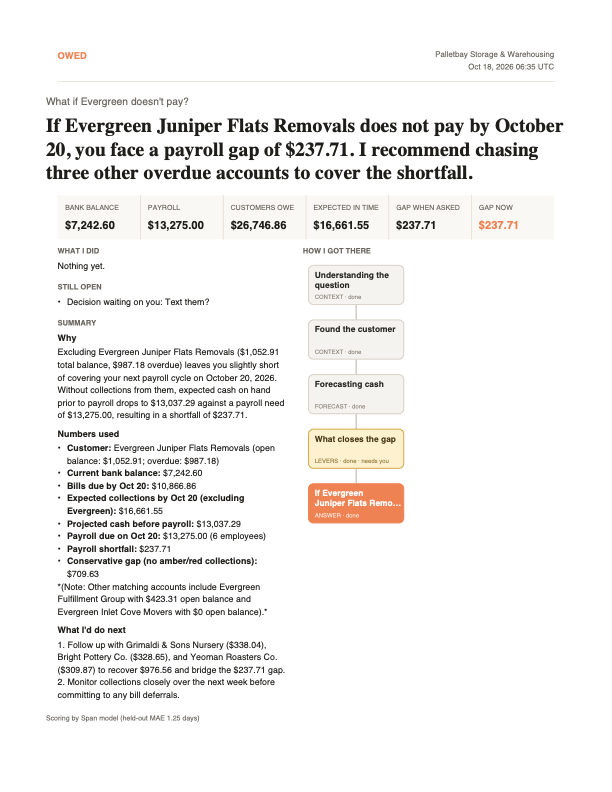
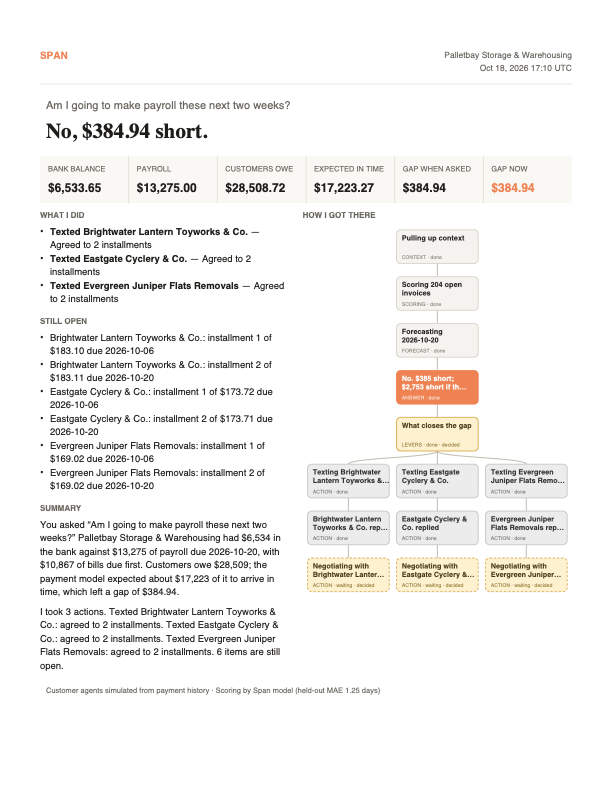
Project site: anime.js choreography (run replay, chat sequence, count-ups, trend draw), symmetric column, report on a white sheet

Changed region(s): [[0.0621, 0.1212, 0.9314, 0.9091], [0.7141, 0.0606, 0.9314, 0.0909], [0.0621, 0.0606, 0.1552, 0.0909]]

diff --git a/site/index.html b/site/index.html
@@ -79,7 +79,7 @@
   figure img{display:block;width:100%;height:auto}
   figcaption{padding:10px 14px;font-size:13px;color:var(--muted)}
   .honest{background:#fff8e6;border:1px solid #f1dfa4;border-radius:12px;padding:14px 16px;font-size:14px;color:#6a5a1e;margin-bottom:40px}
-  .show{margin-bottom:56px}
+  .show{margin:0 auto 56px;max-width:920px}
   .show.two{display:grid;grid-template-columns:1fr 1fr;gap:24px}
   @media (max-width:820px){.show.two{grid-template-columns:1fr}}
   .shead{margin-bottom:12px}
@@ -110,10 +110,12 @@
   .stats{display:grid;grid-template-columns:repeat(3,1fr);gap:1px;background:var(--line);border:1px solid var(--line);border-radius:10px;overflow:hidden;margin-bottom:12px}
   .stats div{background:var(--card);padding:10px 12px}.stats span{display:block;font-size:11px;color:var(--muted)}.stats b{font-size:20px;font-variant-numeric:tabular-nums}.stats .red{color:#d93025}.stats .green{color:var(--green)}
   .trend{width:100%;height:auto;display:block}
-  .paper{margin:0;background:var(--card);border:1px solid var(--line);border-radius:14px;overflow:hidden;max-width:620px}.paper img{display:block;width:100%;height:auto}
-  .nums{display:grid;grid-template-columns:repeat(auto-fit,minmax(170px,1fr));gap:14px;margin-bottom:44px}
+  .paper{margin:0 auto;background:#fff;border:1px solid var(--line);border-radius:14px;overflow:hidden;max-width:640px;box-shadow:0 18px 50px rgba(57,58,61,.12)}.paper img{display:block;width:100%;height:auto;background:#fff}
+  .nums{display:grid;grid-template-columns:repeat(auto-fit,minmax(170px,1fr));gap:14px;margin:0 auto 44px;max-width:920px}
   .nums div{background:var(--card);border:1px solid var(--line);border-radius:14px;padding:16px 18px}.nums b{display:block;font-size:30px;letter-spacing:-.02em;line-height:1.1;margin-bottom:4px}.nums span{font-size:13px;color:var(--muted)}
-  footer{color:var(--muted);font-size:13px;border-top:1px solid var(--line);padding-top:18px;line-height:1.6}
+  footer{color:var(--muted);font-size:13px;border-top:1px solid var(--line);padding-top:18px;line-height:1.6;max-width:920px;margin:0 auto}
+  .shead{text-align:left}
+  @media (prefers-reduced-motion:reduce){[data-anim]{opacity:1!important;transform:none!important}}
   footer a{color:inherit}
   @media (prefers-color-scheme:dark){:root{--ink:#e8e9ec;--muted:#a6a8b0;--line:#2f3136;--bg:#141518;--card:#1d1f23}.honest{background:#2a2612;border-color:#4a4120;color:#e5d7a3}}
 </style>
@@ -138,12 +140,12 @@
           <span><svg viewBox="0 0 16 16" fill="none" stroke="currentColor" stroke-width="1.7"><circle cx="8" cy="5.5" r="2.5"/><path d="M3 14c.8-3 2.6-4 5-4s4.2 1 5 4"/></svg>Customers</span>
         </div>
         <div class="canvas">
-          <div class="you"><span class="av">R</span><span>Am I going to make payroll these next two weeks?</span></div>
-          <div class="tool"><span class="ck">&#10003;</span><b>read books</b><span>· bank $6.5k, payroll $13.3k, bills $10.9k</span><span class="t">0.4 s</span></div>
-          <div class="tool"><span class="ck">&#10003;</span><b>score invoices</b><span>· 204 scored</span><span class="t">11.4 s</span></div>
-          <div class="tool"><span class="ck">&#10003;</span><b>forecast cash</b><span>· cushion −$385</span><span class="t">0.4 s</span></div>
-          <div class="verdict"><span class="av s">S</span><span>No. $385 short; $2,753 short if the slow payers slip. This estimate uses payment history and bills due by Oct 20.</span><span class="pill">SHORT</span></div>
-          <div class="lever">
+          <div class="you" data-anim="hero"><span class="av">R</span><span>Am I going to make payroll these next two weeks?</span></div>
+          <div class="tool" data-anim="hero"><span class="ck">&#10003;</span><b>read books</b><span>· bank $6.5k, payroll $13.3k, bills $10.9k</span><span class="t">0.4 s</span></div>
+          <div class="tool" data-anim="hero"><span class="ck">&#10003;</span><b>score invoices</b><span>· 204 scored</span><span class="t">11.4 s</span></div>
+          <div class="tool" data-anim="hero"><span class="ck">&#10003;</span><b>forecast cash</b><span>· cushion −$385</span><span class="t">0.4 s</span></div>
+          <div class="verdict" data-anim="hero"><span class="av s">S</span><span>No. $385 short; $2,753 short if the slow payers slip. This estimate uses payment history and bills due by Oct 20.</span><span class="pill">SHORT</span></div>
+          <div class="lever" data-anim="hero">
             <div class="h"><span class="ic">&#9993;</span>Text 3 reliable late payers<span class="amt">+ $845</span></div>
             <div class="chips">
               <span class="chip"><span class="av" style="background:#2d7ff9">HT</span>Hearth · $282</span>
@@ -153,7 +155,7 @@
             <div class="fine"><i></i>tap a name to leave them out · nothing is sent until you say so</div>
             <div class="acts"><span class="b p">Yes, text them</span><span class="b">Text, don’t touch bills</span><span class="b">Not now</span></div>
           </div>
-          <div class="dock"><span class="ic">&#9742;</span><span class="wave"><i></i><i style="height:10px"></i><i style="height:13px"></i><i style="height:8px"></i><i></i></span>Conversation<span class="badge">5</span></div>
+          <div class="dock" data-anim="hero"><span class="ic">&#9742;</span><span class="wave"><i></i><i style="height:10px"></i><i style="height:13px"></i><i style="height:8px"></i><i></i></span>Conversation<span class="badge">5</span></div>
         </div>
       </div>
     </div>
@@ -168,19 +170,19 @@
     <div class="msgs">
       <div class="mlist">
         <div class="mh">Messages<span>3 customers</span></div>
-        <div class="mrow sel"><span class="av" style="background:#2d7ff9">BL</span><div><b>Brightwater Lantern…</b><div>Agreed: 2 payments</div></div><em>AGREED</em></div>
-        <div class="mrow"><span class="av" style="background:#7c5cff">EC</span><div><b>Eastgate Cyclery &amp; Co.</b><div>Agreed: 2 payments</div></div><em>AGREED</em></div>
-        <div class="mrow"><span class="av" style="background:#e08a1e">EJ</span><div><b>Evergreen Juniper Fl…</b><div>Agreed: 2 payments</div></div><em>AGREED</em></div>
+        <div class="mrow sel" data-anim="msgs"><span class="av" style="background:#2d7ff9">BL</span><div><b>Brightwater Lantern…</b><div>Agreed: 2 payments</div></div><em>AGREED</em></div>
+        <div class="mrow" data-anim="msgs"><span class="av" style="background:#7c5cff">EC</span><div><b>Eastgate Cyclery &amp; Co.</b><div>Agreed: 2 payments</div></div><em>AGREED</em></div>
+        <div class="mrow" data-anim="msgs"><span class="av" style="background:#e08a1e">EJ</span><div><b>Evergreen Juniper Fl…</b><div>Agreed: 2 payments</div></div><em>AGREED</em></div>
       </div>
       <div class="mthread">
         <div class="mhead"><span class="av" style="background:#2d7ff9">BL</span><div><b>Brightwater Lantern Toyworks &amp; Co.</b><div>SMS · Span for Palletbay · text sent to the owner’s phone · customer reply simulated</div></div></div>
-        <div class="bub out">Hi Brightwater Lantern Toyworks &amp; Co., could you confirm a payment date for your outstanding invoice? Invoice inv-03282: $366.21. Pay here: pay.span/8f3a<small>delivered</small></div>
-        <div class="bub in">We can do two payments if that works for you.<small>wants plan</small></div>
-        <div class="agentline">Span’s agent is talking to Brightwater’s agent</div>
-        <div class="bub out agent">Propose 1 payment(s), 0% discount.<small>Span agent · 100% likely honored</small></div>
-        <div class="bub in agent">I can pay half now and half in two weeks.<small>Brightwater’s agent · 100% likely honored</small></div>
-        <div class="bub out agent">Propose 2 payment(s), 0% discount.<small>Span agent</small></div>
-        <div class="agree">&#10003; Agreed: 2 payments of $183</div>
+        <div class="bub out" data-anim="chat">Hi Brightwater Lantern Toyworks &amp; Co., could you confirm a payment date for your outstanding invoice? Invoice inv-03282: $366.21. Pay here: pay.span/8f3a<small>delivered</small></div>
+        <div class="bub in" data-anim="chat">We can do two payments if that works for you.<small>wants plan</small></div>
+        <div class="agentline" data-anim="chat">Span’s agent is talking to Brightwater’s agent</div>
+        <div class="bub out agent" data-anim="chat">Propose 1 payment(s), 0% discount.<small>Span agent · 100% likely honored</small></div>
+        <div class="bub in agent" data-anim="chat">I can pay half now and half in two weeks.<small>Brightwater’s agent · 100% likely honored</small></div>
+        <div class="bub out agent" data-anim="chat">Propose 2 payment(s), 0% discount.<small>Span agent</small></div>
+        <div class="agree" data-anim="chat">&#10003; Agreed: 2 payments of $183</div>
       </div>
     </div>
   </section>
@@ -192,23 +194,23 @@
         <div class="ph"><span class="av" style="background:#2d7ff9">BL</span><div><b>Brightwater Lantern Toyworks &amp; Co.</b><div>Installment 1 of 2 · inv-03282</div></div><b class="amt">$183.11</b></div>
         <div class="rails"><span class="on">Card · Visa sandbox</span><span>USDC · Solana devnet</span></div>
         <div class="field">4111 1111 1111 1111<span>12/28 · 123</span></div>
-        <div class="paybtn">Pay $183.11</div>
-        <div class="receipt">&#10003; $183.11 received · card ending 1111 · forecast refreshed</div>
+        <div class="paybtn" data-anim="pay">Pay $183.11</div>
+        <div class="receipt" data-anim="pay">&#10003; $183.11 received · card ending 1111 · forecast refreshed</div>
       </div>
     </div>
     <div>
       <div class="shead"><b>The gap closes.</b><span>Four installments. Payroll covered.</span></div>
       <div class="outcome">
         <div class="stats">
-          <div><span>Cushion when asked</span><b class="red">−$385</b></div>
-          <div><span>Cushion now</span><b class="green">+$43</b></div>
-          <div><span>Collected</span><b>$1,691</b></div>
+          <div><span>Cushion when asked</span><b class="red" data-count="-385" data-prefix="$">−$385</b></div>
+          <div><span>Cushion now</span><b class="green" data-count="43" data-from="-385" data-prefix="$">+$43</b></div>
+          <div><span>Collected</span><b data-count="1691" data-prefix="$">$1,691</b></div>
         </div>
         <svg viewBox="0 0 320 90" class="trend" aria-hidden="true">
           <line x1="0" y1="58" x2="320" y2="58" stroke="#d93025" stroke-dasharray="4 4" stroke-width="1"/>
-          <polyline fill="none" stroke="#2ca01c" stroke-width="2.5" points="10,72 70,66 130,60 190,48 250,34 310,22"/>
-          <circle cx="10" cy="72" r="4" fill="#d93025"/><circle cx="310" cy="22" r="4" fill="#2ca01c"/>
-          <text x="14" y="86" font-size="10" fill="#6b6c72">asked</text><text x="262" y="14" font-size="10" fill="#2ca01c">payroll covered</text>
+          <polyline id="trendline" fill="none" stroke="#2ca01c" stroke-width="2.5" points="10,72 70,66 130,60 190,48 250,34 310,22"/>
+          <circle cx="10" cy="72" r="4" fill="#d93025"/><circle id="trenddot" cx="310" cy="22" r="4" fill="#2ca01c"/>
+          <text x="14" y="86" font-size="10" fill="#6b6c72">asked</text><text x="228" y="14" font-size="10" fill="#2ca01c">payroll covered</text>
         </svg>
       </div>
     </div>
@@ -216,17 +218,85 @@
 
   <section class="show">
     <div class="shead"><b>Then the one-pager.</b><span>Numbers used, what it did, what is open.</span></div>
-    <figure class="paper"><img src="img/report.png" alt="One-page report generated from the run"></figure>
+    <figure class="paper" data-anim="paper"><img src="img/report.png" alt="One-page report generated from the run"></figure>
   </section>
 
   <section class="nums">
-    <div><b>204</b><span>invoices scored per question</span></div>
-    <div><b>1.25 d</b><span>held-out error of the days-late model</span></div>
-    <div><b>33 s</b><span>three reminders to three agreements</span></div>
+    <div><b data-count="204">204</b><span>invoices scored per question</span></div>
+    <div><b data-count="1.25" data-suffix=" d" data-decimals="2">1.25 d</b><span>held-out error of the days-late model</span></div>
+    <div><b data-count="33" data-suffix=" s">33 s</b><span>three reminders to three agreements</span></div>
     <div><b>0</b><span>actions without the owner’s yes</span></div>
   </section>
 
   <footer>Built solo at LA Hacks AI 2026 by Ryan Lee · Gemini · ElevenLabs · Tiger Data · Fetch.ai uAgents · Photon · Visa · Solana · Sentry · Intuit dataset · <a href="https://github.com/comp-Ryan/span">github.com/comp-Ryan/span</a><br>Labeled honestly: customer agents are simulated from real payment history, the card rail is simulated unless the Visa sandbox is configured, Solana runs on devnet, voice runs in the browser unless the phone line is configured.</footer>
 </div>
+<script src="https://cdnjs.cloudflare.com/ajax/libs/animejs/3.2.2/anime.min.js"></script>
+<script>
+(function () {
+  if (!window.anime || matchMedia('(prefers-reduced-motion: reduce)').matches) return;
+  var q = function (sel, root) { return Array.prototype.slice.call((root || document).querySelectorAll(sel)); };
+  var hide = function (els) { els.forEach(function (el) { el.style.opacity = 0; }); };
+  var fmt = function (v, el) {
+    var d = Number(el.dataset.decimals || 0), prefix = el.dataset.prefix || '', suffix = el.dataset.suffix || '';
+    var n = Math.abs(v).toLocaleString(undefined, { minimumFractionDigits: d, maximumFractionDigits: d });
+    return (v < 0 ? '−' : (el.dataset.from ? '+' : '')) + prefix + n + suffix;
+  };
+  // 1. The product, unfolding like a real run: question, tool rows, verdict, the ask, the dock. Replays every 11 s.
+  var hero = q('[data-anim="hero"]'); hide(hero);
+  function playHero() {
+    var tl = anime.timeline({ easing: 'easeOutCubic' });
+    tl.add({ targets: hero[0], opacity: [0, 1], translateY: [8, 0], duration: 400 })
+      .add({ targets: hero.slice(1, 4), opacity: [0, 1], translateX: [-14, 0], duration: 420, delay: anime.stagger(520) }, '+=150')
+      .add({ targets: hero[4], opacity: [0, 1], scaleY: [0.85, 1], duration: 420, transformOrigin: 'top' }, '+=200')
+      .add({ targets: hero[5], opacity: [0, 1], translateY: [14, 0], duration: 480 }, '+=250')
+      .add({ targets: q('.chip', hero[5]), opacity: [0, 1], scale: [0.85, 1], duration: 300, delay: anime.stagger(90) }, '-=250')
+      .add({ targets: q('.b.p', hero[5]), scale: [1, 1.06, 1], duration: 700, easing: 'easeInOutSine' }, '+=300')
+      .add({ targets: hero[6], opacity: [0, 1], scale: [0.8, 1], duration: 380, easing: 'easeOutBack' }, '-=500');
+    tl.finished.then(function () { setTimeout(function () { hide(hero); playHero(); }, 11000); });
+  }
+  playHero();
+  // 2. Everything below plays once when it scrolls into view.
+  var once = function (el, fn) {
+    if (!('IntersectionObserver' in window)) return fn();
+    var io = new IntersectionObserver(function (entries) { entries.forEach(function (e) { if (e.isIntersecting) { io.disconnect(); fn(); } }); }, { threshold: 0.25 });
+    io.observe(el);
+  };
+  var msgs = q('[data-anim="msgs"]'), chat = q('[data-anim="chat"]'); hide(msgs); hide(chat);
+  once(document.querySelector('.msgs'), function () {
+    anime.timeline({ easing: 'easeOutCubic' })
+      .add({ targets: msgs, opacity: [0, 1], translateX: [-10, 0], duration: 350, delay: anime.stagger(120) })
+      .add({ targets: chat, opacity: [0, 1], translateY: [10, 0], duration: 380, delay: anime.stagger(420) }, '-=100')
+      .add({ targets: q('.mrow em'), scale: [0.6, 1], opacity: [0, 1], duration: 300, delay: anime.stagger(80), easing: 'easeOutBack' }, '-=200');
+  });
+  var pay = q('[data-anim="pay"]'); hide([pay[1]]);
+  once(document.querySelector('.pay'), function () {
+    anime.timeline({ easing: 'easeOutCubic' })
+      .add({ targets: pay[0], scale: [1, 0.97, 1], duration: 500, delay: 600 })
+      .add({ targets: pay[1], opacity: [0, 1], translateY: [6, 0], duration: 400 });
+  });
+  var outcome = document.querySelector('.outcome');
+  var line = document.getElementById('trendline'), dot = document.getElementById('trenddot');
+  if (line) { line.setAttribute('stroke-dasharray', anime.setDashoffset(line)); line.setAttribute('stroke-dashoffset', anime.setDashoffset(line)); }
+  if (dot) dot.style.opacity = 0;
+  once(outcome, function () {
+    q('[data-count]', outcome).forEach(function (el) {
+      var from = Number(el.dataset.from || 0), to = Number(el.dataset.count), o = { v: from };
+      anime({ targets: o, v: to, duration: 1400, easing: 'easeOutExpo', update: function () { el.textContent = fmt(Math.round(o.v), el); } });
+    });
+    anime({ targets: line, strokeDashoffset: [anime.setDashoffset, 0], duration: 1400, easing: 'easeInOutSine', delay: 200 });
+    anime({ targets: dot, opacity: [0, 1], scale: [0, 1], duration: 300, delay: 1500, easing: 'easeOutBack' });
+  });
+  var paper = document.querySelector('[data-anim="paper"]'); if (paper) paper.style.opacity = 0;
+  once(paper, function () { anime({ targets: paper, opacity: [0, 1], translateY: [18, 0], duration: 600, easing: 'easeOutCubic' }); });
+  var nums = document.querySelector('.nums');
+  once(nums, function () {
+    q('[data-count]', nums).forEach(function (el) {
+      var to = Number(el.dataset.count), o = { v: 0 };
+      anime({ targets: o, v: to, duration: 1200, easing: 'easeOutExpo', update: function () { el.textContent = fmt(Number(el.dataset.decimals) ? o.v : Math.round(o.v), el); } });
+    });
+    anime({ targets: q('.nums div'), opacity: [0, 1], translateY: [10, 0], duration: 450, delay: anime.stagger(90), easing: 'easeOutCubic' });
+  });
+})();
+</script>
 </body>
 </html>
